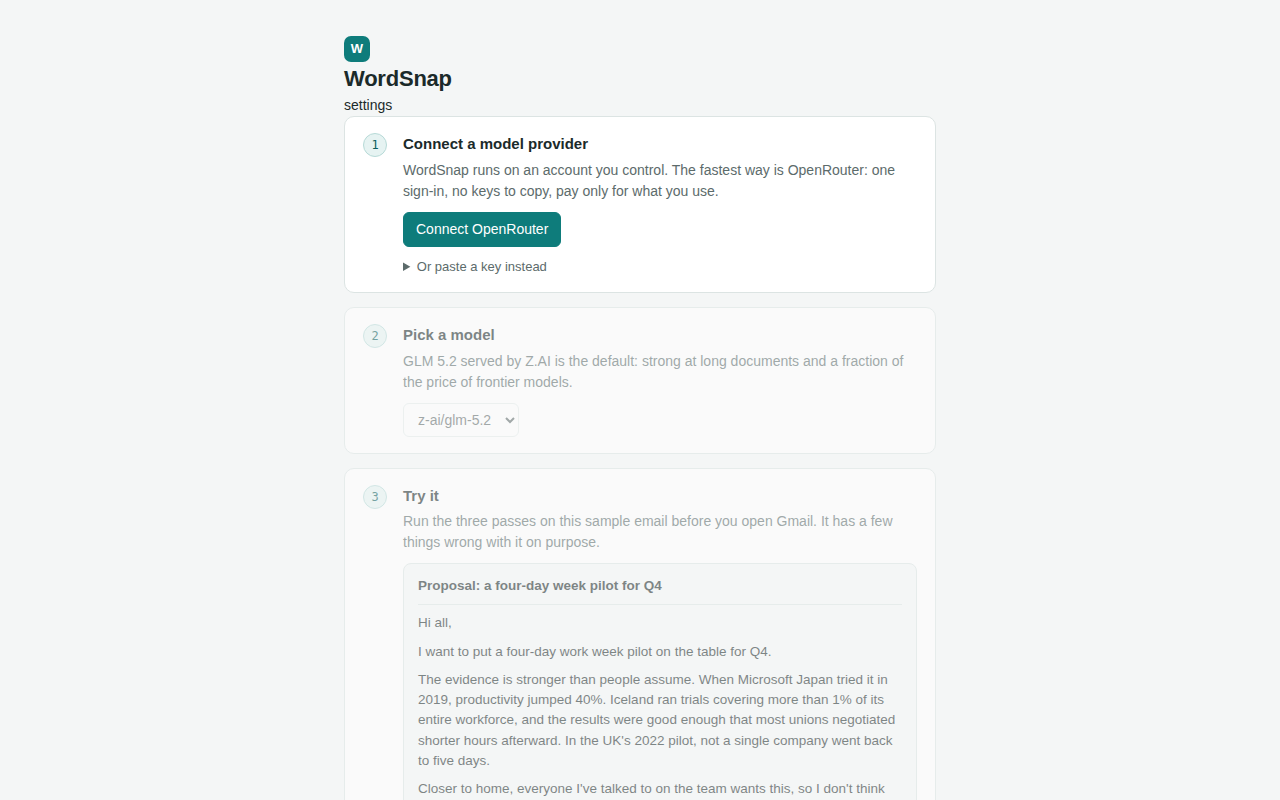
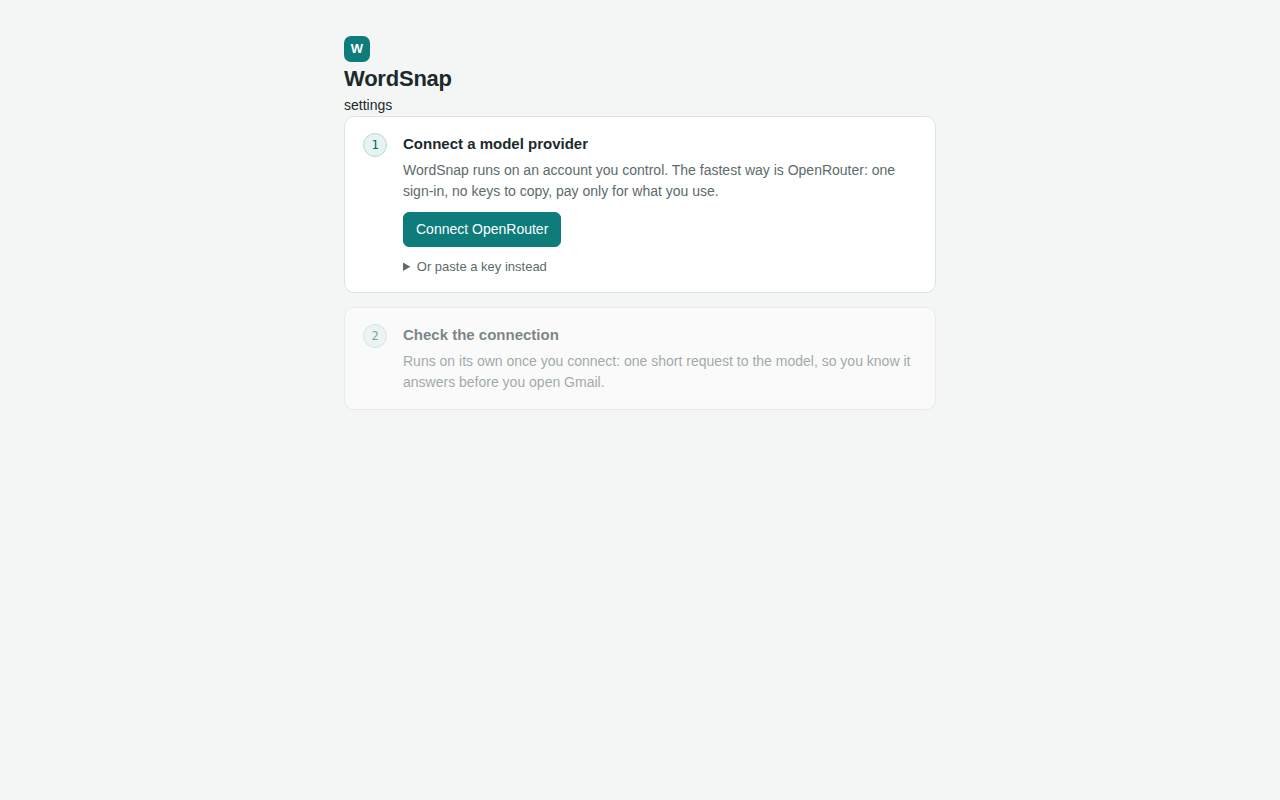
Refresh the settings screenshot for the new setup screen
The options page lost its model picker and sample step, so the store
screenshot is recaptured; the dev-only mock row is hidden for the shot.
CLAUDE.md now says X is in daily use rather than untested.

Claude-Session: https://claude.ai/code/session_01BVkaE8f6ZfqzDQHwdrUFdF

diff --git a/CLAUDE.md b/CLAUDE.md
@@ -4,7 +4,7 @@ Read this before touching code. `docs/SPEC.md` is the long form; this file is wh
 
 ## What this is
 
-A Chrome extension (Manifest V3) that sits on top of the composer a person is already typing in (Gmail first; X and LinkedIn adapters exist but are untested on the live sites) and runs three analysis passes over the draft:
+A Chrome extension (Manifest V3) that sits on top of the composer a person is already typing in (Gmail first; X in daily use by the maintainer; the LinkedIn adapter is untested on the live site) and runs three analysis passes over the draft:
 
 - **A. Clarity and claims**: fuzzy thinking, hedges, weak structure, plus extraction of every checkable claim. No research.
 - **B. Fact check**: verifies each claim with web search, returns status, finding, confidence, sources, optional tighter wording.
